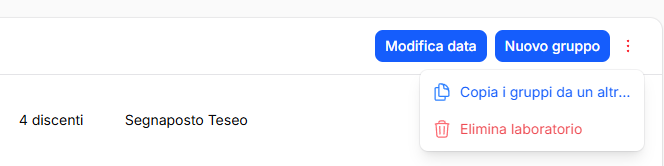
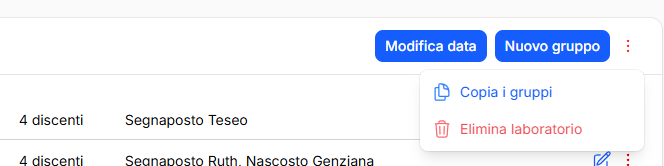
docs: guida Esami, avviso sulla stesura e voce «Copia i gruppi»
- avviso «Come è stata scritta» anche in apertura della sezione Esami
- Laboratori e gruppi: nome nuovo della voce e schermata del menu rifatta

diff --git a/docs/04-esami/02-preparazione/04-laboratori-e-gruppi.md b/docs/04-esami/02-preparazione/04-laboratori-e-gruppi.md
@@ -15,7 +15,7 @@ Ogni laboratorio è un riquadro con il numero, la data e i suoi gruppi. Ogni gru
 
 - **Aggiungi laboratorio**, in fondo alla pagina, crea il laboratorio successivo; la data si può indicare subito o dopo.
 - **Modifica data** cambia la data del laboratorio.
-- Dai **tre puntini** del laboratorio: **Copia i gruppi da un altro laboratorio** (vedi sotto) ed **Elimina laboratorio**, che elimina anche i suoi gruppi.
+- Dai **tre puntini** del laboratorio: **Copia i gruppi** (vedi sotto) ed **Elimina laboratorio**, che elimina anche i suoi gruppi.
 
 <!-- screenshot: route=/admin/esami/1/gestione/laboratori · v1.86.2 · 2026-11-19 · menu del laboratorio -->
 ![Menu del laboratorio](../../immagini/esami/laboratorio-menu.png)
@@ -41,7 +41,7 @@ Dai tre puntini della riga, **Elimina gruppo** toglie il gruppo e le sue assegna
 
 ## Copiare i gruppi da un altro laboratorio
 
-Se i gruppi si ripetono da un laboratorio all'altro, dai tre puntini del laboratorio di arrivo scegli **Copia i gruppi da un altro laboratorio**, poi:
+Se i gruppi si ripetono da un laboratorio all'altro, dai tre puntini del laboratorio di arrivo scegli **Copia i gruppi**, poi:
 
 - **Copia dal**: il laboratorio di partenza;
 - **Gruppi da copiare**: **Tutti i gruppi** oppure uno solo.

diff --git a/docs/04-esami/README.md b/docs/04-esami/README.md
@@ -2,6 +2,8 @@
 
 > **A chi serve:** direttori dei corsi, commissioni d'esame, docenti, discenti e amministratori dei comitati che usano gli esami.
 
+> **Come è stata scritta.** Questa guida è stata scritta interamente con l'ausilio di un agente di intelligenza artificiale, Claude Code di Anthropic con il modello Claude Opus 5.5, in base alle indicazioni dello sviluppatore e all'analisi diretta del codice. Il contenuto è verificato sul funzionamento reale del programma, ma finché non sarà revisionato da una persona alcuni passaggi potrebbero mancare e le motivazioni di alcune scelte potrebbero non essere spiegate con precisione. Le pagine già revisionate lo indicano in apertura con la riga «Pagina revisionata» e la data.
+
 Un esame valuta i discenti di un corso: è legato a quel corso (uno solo per corso) e lo gestiscono il direttore del corso, la commissione e i docenti. Il direttore lavora nel pannello, docenti e commissione compilano le loro schede nell'app dei soci, i discenti svolgono il test scritto dall'app.
 
 Ogni esame segue un **modello**, scelto in base al tipo di corso del catalogo: il modello dice quali prove ci sono, quali schede si compilano e come si calcola il punteggio finale. Questa guida è divisa di conseguenza:
